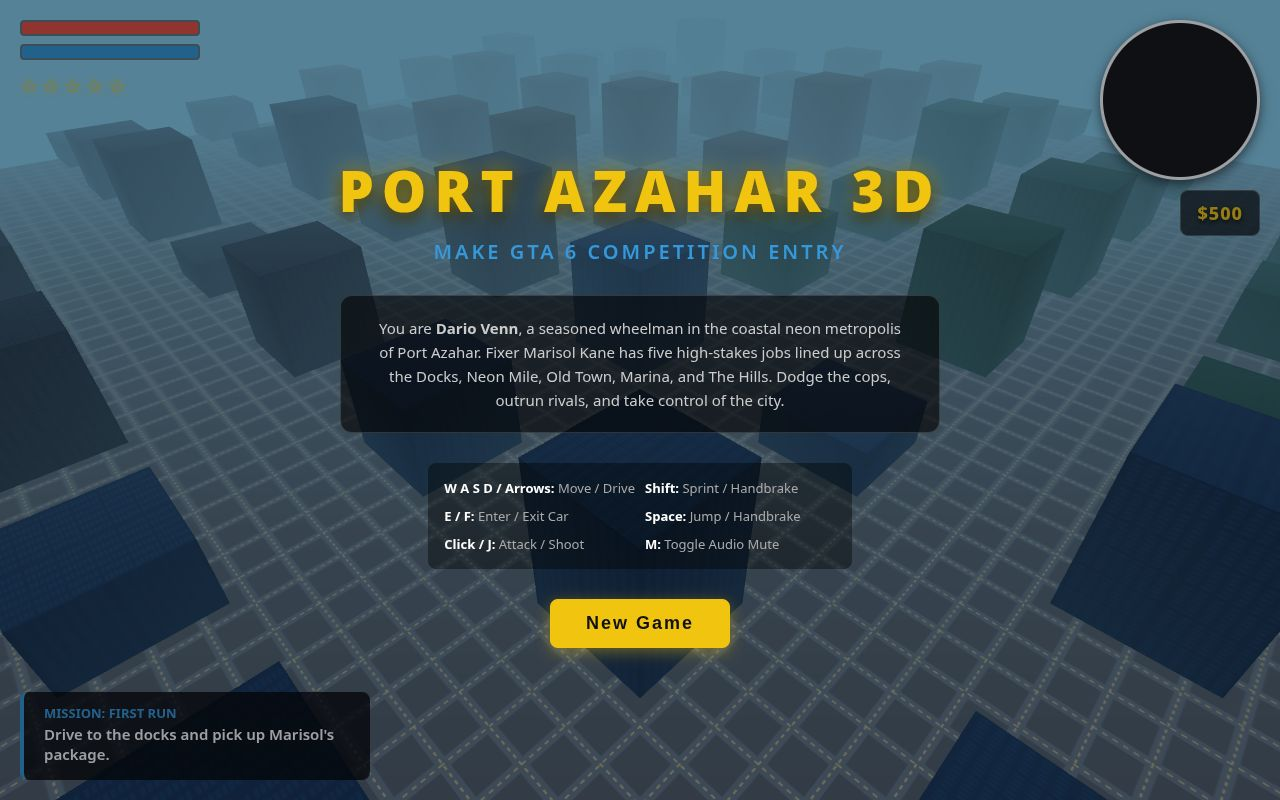
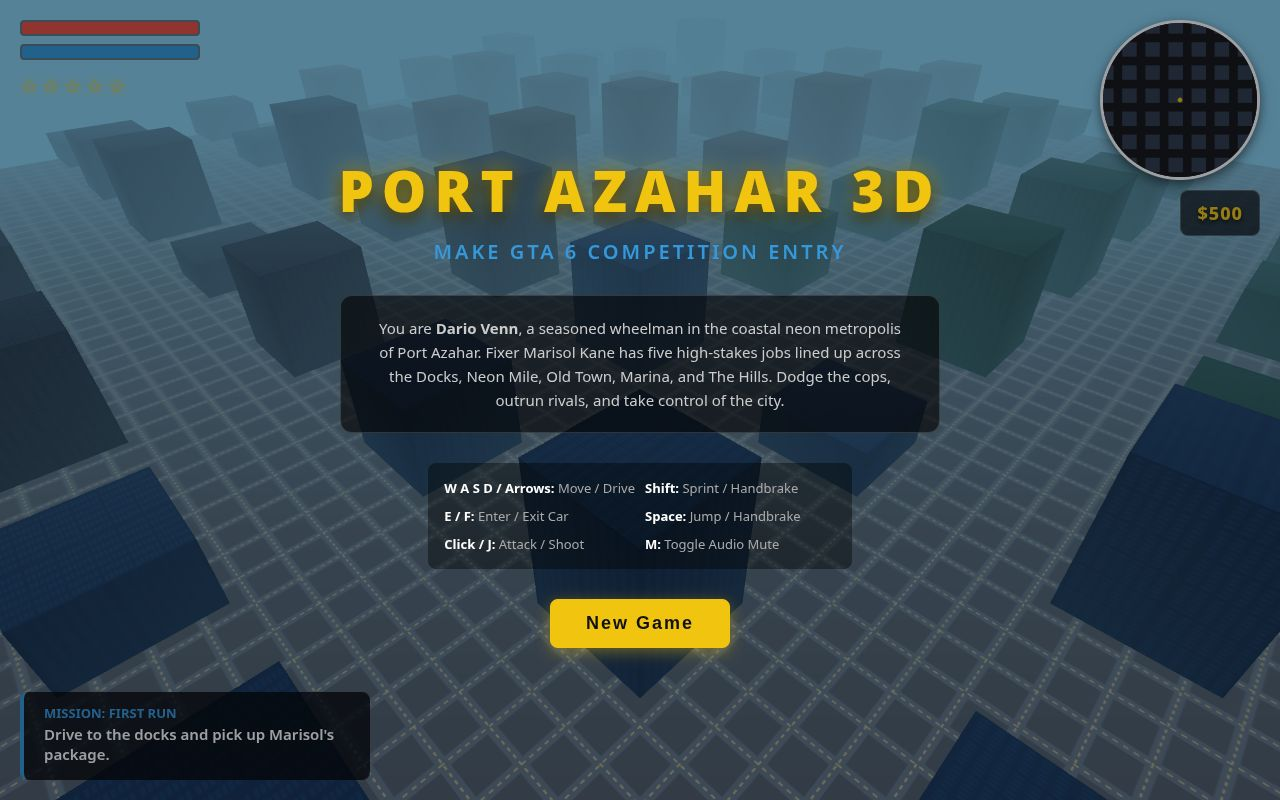
Port Azahar 3D v7 shot fixes: night lighting, police livery, drive traffic, live HUD/minimap

Changed region(s): [[0.8438, 0.0312, 1.0, 0.2188]]

diff --git a/game/src/main.js b/game/src/main.js
@@ -70,6 +70,26 @@ class PortAzaharGame {
     this.buildings = worldData.buildings;
     this.buildingBoxes = worldData.buildingBoxes;
     this.water = worldData.water;
+    this.dayBuildingTexture = worldData.buildingTexture;
+    this.nightBuildingTexture = worldData.nightTexture;
+  }
+
+  addWheels(group) {
+    const wheelGeo = new THREE.CylinderGeometry(0.35, 0.35, 0.25, 16);
+    wheelGeo.rotateZ(Math.PI / 2);
+    const wheelMat = new THREE.MeshStandardMaterial({ color: 0x111111, roughness: 0.8 });
+    const wheelPositions = [
+      { x: -1.1, y: 0.35, z: 1.4 },
+      { x: 1.1, y: 0.35, z: 1.4 },
+      { x: -1.1, y: 0.35, z: -1.4 },
+      { x: 1.1, y: 0.35, z: -1.4 },
+    ];
+    wheelPositions.forEach(pos => {
+      const w = new THREE.Mesh(wheelGeo, wheelMat);
+      w.position.set(pos.x, pos.y, pos.z);
+      w.castShadow = true;
+      group.add(w);
+    });
   }
 
   initPlayer() {
@@ -102,7 +122,10 @@ class PortAzaharGame {
     const cabinMat = new THREE.MeshStandardMaterial({ color: 0x1a202c, metalness: 0.8, roughness: 0.1 });
     const cabin = new THREE.Mesh(new THREE.BoxGeometry(1.8, 0.7, 2.2), cabinMat);
     cabin.position.set(0, 1.15, -0.2);
+    cabin.castShadow = true;
     carGroup.add(cabin);
+
+    this.addWheels(carGroup);
 
     carGroup.position.set(0, 0.5, 10);
     this.scene.add(carGroup);
@@ -175,14 +198,41 @@ class PortAzaharGame {
     const carMat = new THREE.MeshStandardMaterial({ color, metalness: 0.5, roughness: 0.3 });
     const body = new THREE.Mesh(new THREE.BoxGeometry(2.1, 0.7, 4.2), carMat);
     body.position.y = 0.5;
+    body.castShadow = true;
     group.add(body);
 
     if (isPolice) {
-      const barMat = new THREE.MeshBasicMaterial({ color: 0xff0000 });
-      const bar = new THREE.Mesh(new THREE.BoxGeometry(1.2, 0.2, 0.4), barMat);
-      bar.position.set(0, 1.0, 0);
-      group.add(bar);
+      const whiteCabinMat = new THREE.MeshStandardMaterial({ color: 0xffffff, roughness: 0.3 });
+      const cabin = new THREE.Mesh(new THREE.BoxGeometry(1.8, 0.7, 2.2), whiteCabinMat);
+      cabin.position.set(0, 1.15, -0.2);
+      cabin.castShadow = true;
+      group.add(cabin);
+
+      const doorMat = new THREE.MeshStandardMaterial({ color: 0xffffff, roughness: 0.3 });
+      const leftDoor = new THREE.Mesh(new THREE.BoxGeometry(0.1, 0.5, 2.0), doorMat);
+      leftDoor.position.set(-1.06, 0.5, 0);
+      group.add(leftDoor);
+      const rightDoor = new THREE.Mesh(new THREE.BoxGeometry(0.1, 0.5, 2.0), doorMat);
+      rightDoor.position.set(1.06, 0.5, 0);
+      group.add(rightDoor);
+
+      const leftBarMat = new THREE.MeshBasicMaterial({ color: 0xff0000 });
+      const rightBarMat = new THREE.MeshBasicMaterial({ color: 0x0055ff });
+      const leftBar = new THREE.Mesh(new THREE.BoxGeometry(0.6, 0.2, 0.4), leftBarMat);
+      leftBar.position.set(-0.3, 1.6, 0);
+      group.add(leftBar);
+      const rightBar = new THREE.Mesh(new THREE.BoxGeometry(0.6, 0.2, 0.4), rightBarMat);
+      rightBar.position.set(0.3, 1.6, 0);
+      group.add(rightBar);
+    } else {
+      const cabinMat = new THREE.MeshStandardMaterial({ color: 0x1a202c, metalness: 0.8, roughness: 0.1 });
+      const cabin = new THREE.Mesh(new THREE.BoxGeometry(1.8, 0.7, 2.2), cabinMat);
+      cabin.position.set(0, 1.15, -0.2);
+      cabin.castShadow = true;
+      group.add(cabin);
     }
+
+    this.addWheels(group);
 
     group.position.set(x, 0.5, z);
     this.scene.add(group);
@@ -217,20 +267,40 @@ class PortAzaharGame {
     this.audio.playMissionSting();
   }
 
+  applyTimeOfDay() {
+    const sunAngle = (this.timeOfDay / 24) * Math.PI * 2;
+    if (this.dirLight) {
+      this.dirLight.position.set(Math.cos(sunAngle) * 600, Math.sin(sunAngle) * 600, 300);
+    }
+    const isNight = this.timeOfDay < 6 || this.timeOfDay > 18;
+    const skyColor = isNight ? 0x050814 : 0x87ceeb;
+    if (this.scene && this.scene.background) {
+      this.scene.background.set(skyColor);
+      this.scene.fog.color.set(skyColor);
+    }
+    if (this.hemiLight) this.hemiLight.intensity = isNight ? 0.2 : 0.8;
+    if (this.dirLight) this.dirLight.intensity = isNight ? 0.1 : 1.2;
+
+    if (this._lastIsNight !== isNight && this.buildings) {
+      this._lastIsNight = isNight;
+      const targetTex = isNight ? this.nightBuildingTexture : this.dayBuildingTexture;
+      if (targetTex) {
+        for (const b of this.buildings) {
+          if (b.material && b.material.map !== targetTex) {
+            b.material.map = targetTex;
+            b.material.needsUpdate = true;
+          }
+        }
+      }
+    }
+  }
+
   update(dt) {
     if (this.freezeSimulation) return;
 
     // Time of day cycle
     this.timeOfDay = (this.timeOfDay + dt * this.daySpeed) % 24;
-    const sunAngle = (this.timeOfDay / 24) * Math.PI * 2;
-    this.dirLight.position.set(Math.cos(sunAngle) * 600, Math.sin(sunAngle) * 600, 300);
-    
-    const isNight = this.timeOfDay < 6 || this.timeOfDay > 18;
-    const skyColor = isNight ? 0x050814 : 0x87ceeb;
-    this.scene.background.set(skyColor);
-    this.scene.fog.color.set(skyColor);
-    this.hemiLight.intensity = isNight ? 0.2 : 0.8;
-    this.dirLight.intensity = isNight ? 0.1 : 1.2;
+    this.applyTimeOfDay();
 
     // Input handling
     const forward = this.input.isDown('KeyW') || this.input.isDown('ArrowUp');
@@ -352,6 +422,28 @@ class PortAzaharGame {
       for (let z = -720; z <= 720; z += 160) {
         ctx.fillRect(x, z, 100, 100);
       }
+    }
+
+    // Draw traffic car blips
+    if (this.trafficCars) {
+      ctx.fillStyle = '#ffffff';
+      this.trafficCars.forEach(tc => {
+        const cp = tc.mesh.position;
+        ctx.beginPath();
+        ctx.arc(cp.x, cp.z, 10, 0, Math.PI * 2);
+        ctx.fill();
+      });
+    }
+
+    // Draw police car blips
+    if (this.policeCars) {
+      ctx.fillStyle = '#e53e3e';
+      this.policeCars.forEach(pc => {
+        const pp = pc.mesh.position;
+        ctx.beginPath();
+        ctx.arc(pp.x, pp.z, 10, 0, Math.PI * 2);
+        ctx.fill();
+      });
     }
 
     // Draw player blip

diff --git a/game/src/shots.js b/game/src/shots.js
@@ -1,3 +1,5 @@
+import * as THREE from 'three';
+
 export function handleStagedShot(urlParams, game) {
   const shot = urlParams.get('shot');
   if (!shot) return;
@@ -5,6 +7,17 @@ export function handleStagedShot(urlParams, game) {
   // Staged shot setup
   game.isShotMode = true;
   game.freezeSimulation = true;
+
+  const collidesWithBuildings = (x, z, boxes) => {
+    const halfW = 1.5;
+    const halfD = 2.5;
+    for (const b of boxes) {
+      if (!(x + halfW < b.minX || x - halfW > b.maxX || z + halfD < b.minZ || z - halfD > b.maxZ)) {
+        return true;
+      }
+    }
+    return false;
+  };
 
   if (shot === 'title') {
     game.camera.position.set(400, 250, 400);
@@ -27,13 +40,37 @@ export function handleStagedShot(urlParams, game) {
     game.camera.position.set(200, 6, 222);
     game.camera.lookAt(200, 1, 200);
 
-    // Spawn 6 traffic cars around
-    for (let i = 0; i < 6; i++) {
-      const angle = (i / 6) * Math.PI * 2;
-      const dist = 30 + (i % 3) * 15;
-      const c = game.spawnCar(200 + Math.cos(angle) * dist, 200 + Math.sin(angle) * dist, false);
-      if (c) game.trafficCars.push(c);
+    game.player.speed = 54;
+    const speedEl = document.getElementById('speedometer');
+    if (speedEl) {
+      speedEl.style.display = 'block';
+      speedEl.innerText = '54 MPH';
     }
+
+    // Stage traffic ON the road with player (6 cars within 8-28m)
+    const trafficSpecs = [
+      { x: 200, z: 210, heading: 0 },
+      { x: 203.5, z: 218, heading: 0 },
+      { x: 196.5, z: 226, heading: 0 },
+      { x: 196.5, z: 190, heading: 0 },
+      { x: 203.5, z: 194, heading: 0 },
+      { x: 196.5, z: 215, heading: Math.PI } // oncoming
+    ];
+
+    trafficSpecs.forEach(spec => {
+      let cx = spec.x;
+      let cz = spec.z;
+      let attempts = 0;
+      while (collidesWithBuildings(cx, cz, game.buildingBoxes) && attempts < 10) {
+        cz += 4;
+        attempts++;
+      }
+      const c = game.spawnCar(cx, cz, false);
+      if (c) {
+        c.mesh.rotation.y = spec.heading;
+        game.trafficCars.push(c);
+      }
+    });
   } else if (shot === 'chase') {
     const title = document.getElementById('title-screen');
     if (title) title.style.display = 'none';
@@ -45,6 +82,13 @@ export function handleStagedShot(urlParams, game) {
     game.camera.lookAt(0, 1, 0);
     game.wantedLevel = 3;
 
+    game.player.speed = 43;
+    const speedEl = document.getElementById('speedometer');
+    if (speedEl) {
+      speedEl.style.display = 'block';
+      speedEl.innerText = '43 MPH';
+    }
+
     // Spawn 3 police cars close beside and behind
     const offsets = [
       { x: -6, z: 8 },
@@ -52,7 +96,14 @@ export function handleStagedShot(urlParams, game) {
       { x: 0, z: 14 }
     ];
     offsets.forEach(off => {
-      const pc = game.spawnPoliceCar(off.x, off.z);
+      let cx = off.x;
+      let cz = off.z;
+      let attempts = 0;
+      while (collidesWithBuildings(cx, cz, game.buildingBoxes) && attempts < 10) {
+        cz += 4;
+        attempts++;
+      }
+      const pc = game.spawnPoliceCar(cx, cz);
       if (pc) game.policeCars.push(pc);
     });
   } else if (shot === 'night') {
@@ -60,17 +111,51 @@ export function handleStagedShot(urlParams, game) {
     if (title) title.style.display = 'none';
 
     game.timeOfDay = 22; // Night
+    game.applyTimeOfDay();
+
     game.player.inVehicle = false;
-    game.player.mesh.position.set(400, 0, 400);
-    game.camera.position.set(400, 3, 408);
-    game.camera.lookAt(400, 1.5, 400);
+    game.player.mesh.position.set(340, 0, 420);
+    game.camera.position.set(340, 3, 430);
+    game.camera.lookAt(340, 1.5, 420);
+
+    // 2 parked traffic cars on the same road within 15m of player
+    const car1 = game.spawnCar(340, 405, false);
+    if (car1) game.trafficCars.push(car1);
+    const car2 = game.spawnCar(340, 435, false);
+    if (car2) game.trafficCars.push(car2);
+
+    // Two point lights for neon glow
+    const plight1 = new THREE.PointLight(0xff2d95, 60, 60);
+    plight1.position.set(335, 0.5, 410);
+    game.scene.add(plight1);
+
+    const plight2 = new THREE.PointLight(0x00e5ff, 60, 60);
+    plight2.position.set(345, 0.5, 410);
+    game.scene.add(plight2);
   }
 
-  // Render a few frames before setting __shotReady
+  // Render frames and refresh HUD/minimap before setting __shotReady
   let renderedFrames = 0;
   const checkReady = () => {
     renderedFrames++;
-    if (renderedFrames > 10) {
+
+    const cashEl = document.getElementById('cash-display');
+    if (cashEl) cashEl.innerText = `$${game.cash.toLocaleString()}`;
+    const healthEl = document.getElementById('health-fill');
+    if (healthEl) healthEl.style.width = `${game.health}%`;
+    const armorEl = document.getElementById('armor-fill');
+    if (armorEl) armorEl.style.width = `${game.armor}%`;
+    const wantedEl = document.getElementById('wanted-display');
+    if (wantedEl) {
+      let starsStr = '';
+      for (let i = 0; i < 5; i++) {
+        starsStr += i < game.wantedLevel ? '★' : '☆';
+      }
+      wantedEl.innerText = starsStr;
+    }
+    game.renderMinimap();
+
+    if (renderedFrames > 15) {
       window.__shotReady = true;
     } else {
       requestAnimationFrame(checkReady);

diff --git a/game/src/world.js b/game/src/world.js
@@ -152,5 +152,5 @@ export function generateWorld(scene, rng) {
     }
   }
 
-  return { buildings, buildingBoxes, water };
+  return { buildings, buildingBoxes, water, buildingTexture, nightTexture };
 }
